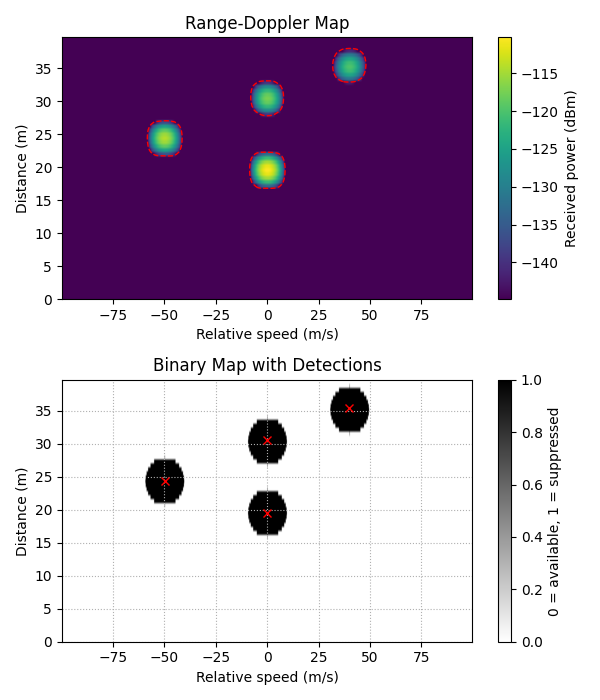
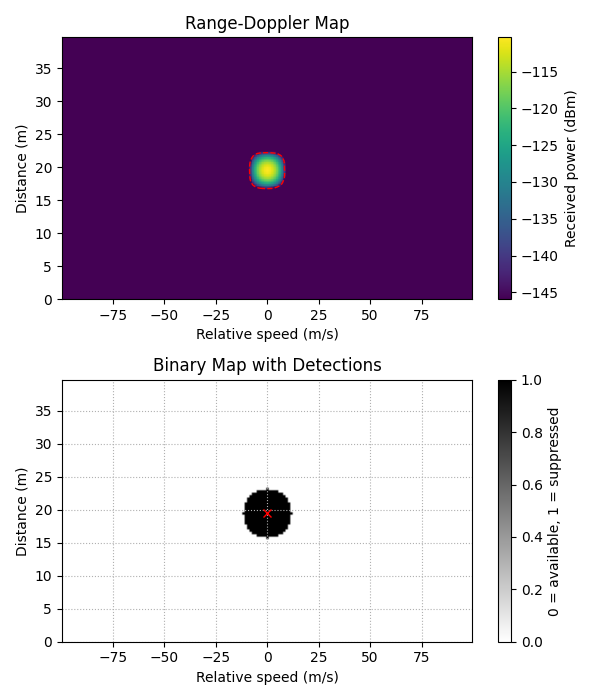
PFA + noise correction

diff --git a/evaluation.py b/evaluation.py
@@ -1,10 +1,13 @@
+# %% Imports
 import numpy as np
-from src.utils import load_config, plot_distance_error, C0
+from src.utils import load_config, plot_periodogram_and_detections, C0
 from src import environment as env
 from src import transmitter as tx
 from src import receiver as rx
 from src import post_processing as post
 
+
+# %% Run simulation
 config = load_config(path='configs/evaluation_parameters.yaml')
 
 FC = config['radar']['fc']
@@ -12,8 +15,7 @@ P_TX_DBM = config['radar']['Ptx']
 G_DBI = config['radar']['G']
 TEMP = config['radar']['temperature']
 NF_DB = config['radar']['NF']
-H = config['radar']['H']
-FAR = config['radar']['FAR']
+PFA = config['radar']['PFA']
 
 MODULATION = config['ofdm']['modulation']
 DELTA_F = config['ofdm']["delta_f"]
@@ -25,8 +27,8 @@ B_START = config['evaluation']['B_start']
 B_END = config['evaluation']['B_end']
 B_STEP = config['evaluation']['B_step']
 
-N_PER = config["periodogram"]['N_per']
-M_PER = config["periodogram"]['M_per']
+# N_PER = config["periodogram"]['N_per']
+# M_PER = config["periodogram"]['M_per']
 
 P_tx = 10 ** (P_TX_DBM / 10) * 1e-3
 G = 10 ** (G_DBI / 10)
@@ -36,8 +38,8 @@ T_SYM = (1.0 / DELTA_F) + T_CP    # seconds
 dmax = T_CP * C0 / 2
 vmax = DELTA_F * C0 / (10 * FC)
 
-N_MAX = int(np.ceil(2 * dmax * N_PER * DELTA_F) / C0)
-M_MAX = int(np.ceil(2 * vmax * FC * T_SYM * M_PER) / C0)
+# N_MAX = int(np.ceil(2 * dmax * N_PER * DELTA_F) / C0)
+# M_MAX = int(np.ceil(2 * vmax * FC * T_SYM * M_PER) / C0)
 
 if MODULATION == "BPSK": 
     BITS_PER_SYMBOL = 1
@@ -48,15 +50,21 @@ else:
 bandwidths = np.arange(B_START, B_END + 1, B_STEP)
 abs_errors = np.zeros((RUNS, len(bandwidths))) 
 
-for j, B in enumerate(bandwidths):
+for j, bw in enumerate(bandwidths):
     
-    N = int(B * 1e6 / DELTA_F)
+    N = int(bw * 1e6 / DELTA_F)
     N_FFT = int(2 ** np.ceil(np.log2(N)))
+    # N_FFT = 4096
     FS = N_FFT * DELTA_F
     CP_LEN = int(np.round(T_CP * FS)) # samples
     N_BITS = BITS_PER_SYMBOL * N * M
-    print(f"Running: B = {B} MHz; N = {N}")
 
+    N_PER = N * 4
+    M_PER = M * 4
+    N_MAX = int(np.ceil(2 * dmax * N_PER * DELTA_F) / C0)
+    M_MAX = int(np.ceil(2 * vmax * FC * T_SYM * M_PER) / C0)
+
+    print(f"Running: B = {bw} MHz; N = {N}")
     for k in range(RUNS):
         # Transmitter ============================================================================================================
         bits = tx.generate_bits(N_BITS)
@@ -76,7 +84,7 @@ for j, B in enumerate(bandwidths):
 
         echos += env.apply_target_echo(target, tx_signal, CP_LEN, FS, FC)
 
-        rx_signal = env.apply_awgn_nf(echos, TEMP, NF_DB, FS)
+        rx_signal = env.apply_awgn_nf(echos, TEMP, NF_DB, N * DELTA_F)
 
 
         # Receiver ==================================================================================================================
@@ -87,8 +95,11 @@ for j, B in enumerate(bandwidths):
         per, n_idx, m_idx, noise_power_hat, c_norm = rx.crop_periodogram(F, N_PER, M_PER, N_MAX, M_MAX, window="hamming")
 
 
+        
         # Post processing =======================================================================================
-        detections, eta, B = post.cfar_detector(per, noise_power_hat, FAR, N_win=12, M_win=128)
+        N_win = 5 * int(N_PER // N)
+        M_win = 5 * int(M_PER // M)
+        detections, eta, B = post.cfar_detector(per, noise_power_hat, PFA, N_win=N_win, M_win=M_win)
 
         det_targets = []
         for t, det in enumerate(detections):
@@ -107,11 +118,43 @@ for j, B in enumerate(bandwidths):
                     "rcs_hat": rcs_hat,
                 }
             )
-        
+        d_ax = n_idx * C0 / (2 * N_PER * DELTA_F)
+        v_ax = m_idx * C0 / (2 * FC * T_SYM * M_PER)
+        vlim=[-100.0, 100.0] 
+        dlim=[0.0, 40.0]
+
+        #plot_periodogram_and_detections(per, B, det_targets, eta, d_ax, v_ax, v_lim=vlim, d_lim=dlim)
         abs_errors[k, j] = np.abs(det_targets[0]["d_hat"] - target.distance)
 
-plot_distance_error(abs_errors, bandwidths)        
+# %%  Plot
+import matplotlib.pyplot as plt
 
-        
+mean = np.mean(abs_errors, axis=0)
+std = np.std(abs_errors, axis=0)
 
+mean_db = 10 * np.log10(mean)
+std_db = 10 * np.log10(mean + std) - mean_db
 
+plt.figure(figsize=(8, 5))
+
+plt.plot(bandwidths, mean_db, label='Mean absolute error', color='blue')
+
+plt.fill_between(
+    bandwidths,
+    mean_db - std_db,
+    mean_db + std_db,
+    color="blue",
+    alpha=0.3,
+    label="±1 std"
+)
+
+plt.xlabel("Bandwidth [MHz]")
+plt.ylabel(r"$|e_d|~[m]$")
+plt.title("Distance Error vs Bandwidth")
+plt.legend()
+plt.grid(linestyle=':')
+
+plt.tight_layout()
+plt.show()        
+
+# %%

diff --git a/simulation.py b/simulation.py
@@ -12,8 +12,7 @@ P_TX_DBM = config['radar']['Ptx']
 G_DBI = config['radar']['G']
 TEMP = config['radar']['temperature']
 NF_DB = config['radar']['NF']
-H = config['radar']['H']
-FAR = config['radar']['FAR']
+PFA = config['radar']['PFA']
 
 MODULATION = config['ofdm']['modulation']
 N_FFT = config['ofdm']['N_fft']
@@ -21,9 +20,6 @@ DELTA_F = config['ofdm']["delta_f"]
 T_CP = config['ofdm']['T_cp']
 N = config['ofdm']["N"]
 M = config['ofdm']['M']
-
-N_PER = config["periodogram"]['N_per']
-M_PER = config["periodogram"]['M_per']
 
 P_tx = 10 ** (P_TX_DBM / 10) * 1e-3
 G = 10 ** (G_DBI / 10)
@@ -36,8 +32,6 @@ CP_LEN = int(np.round(T_CP * FS)) # samples
 dmax = T_CP * C0 / 2
 vmax = DELTA_F * C0 / (10 * FC)
 
-N_MAX = int(np.ceil(2 * dmax * N_PER * DELTA_F) / C0)
-M_MAX = int(np.ceil(2 * vmax * FC * T_SYM * M_PER) / C0)
 
 if MODULATION == "BPSK": 
     BITS_PER_SYMBOL = 1
@@ -45,6 +39,16 @@ else:
     BITS_PER_SYMBOL = 2
 
 N_BITS = BITS_PER_SYMBOL * N * M
+
+if config['periodogram']['configure']:
+    N_PER = config["periodogram"]['N_per']
+    M_PER = config["periodogram"]['M_per']
+else:
+    N_PER = N * 4
+    M_PER = M * 4
+
+N_MAX = int(np.ceil(2 * dmax * N_PER * DELTA_F) / C0)
+M_MAX = int(np.ceil(2 * vmax * FC * T_SYM * M_PER) / C0)
 
 # Transmitter ============================================================================================================
 bits = tx.generate_bits(N_BITS)
@@ -65,7 +69,7 @@ echos = np.zeros_like(tx_signal, dtype=complex)
 for target in targets:
     echos += env.apply_target_echo(target, tx_signal, CP_LEN, FS, FC)
 
-rx_signal = env.apply_awgn_nf(echos, TEMP, NF_DB, FS)
+rx_signal = env.apply_awgn_nf(echos, TEMP, NF_DB, BANDWIDTH)
 
 
 # Receiver ==================================================================================================================
@@ -77,7 +81,9 @@ per, n_idx, m_idx, noise_power_hat, c_norm = rx.crop_periodogram(F, N_PER, M_PER
 
 
 # Post processing =======================================================================================
-detections, eta, B = post.cfar_detector(per, noise_power_hat, FAR, N_win=12, M_win=128)
+N_win = 5 * int(N_PER // N)
+M_win = 5 * int(M_PER // M)
+detections, eta, B = post.cfar_detector(per, noise_power_hat, PFA, N_win=N_win, M_win=M_win)
 print("Detection Threshold (dBm):", 10 * np.log10(eta * 1000), "\n")
 
 det_targets = []

diff --git a/src/post_processing.py b/src/post_processing.py
@@ -3,7 +3,7 @@ import numpy as np
 def cfar_detector(
     per: np.ndarray,
     noise_power: float,
-    FAR: float,
+    pfa: float,
     N_win: int = 3,
     M_win: int = 3,
 ):
@@ -32,7 +32,7 @@ def cfar_detector(
             - 'm_col': Doppler column index inside cropped periodogram
             - 'm_bin': centered Doppler-bin index
             - 'peak_power': detected peak value
-    eta : float
+    eta : float 
         Detection threshold.
     B : ndarray
         Final binary map (True = available, False = suppressed).
@@ -42,7 +42,8 @@ def cfar_detector(
 
     n_cells = N_max * M_crop
 
-    eta = -noise_power * np.log(FAR / n_cells)
+    #eta = -noise_power * np.log(pfa / n_cells)
+    eta = -noise_power * np.log(1 - (1 - pfa)**(1/n_cells)) # more accurate threshold calculation for small FAR values
 
     B = np.ones_like(per, dtype=bool)
     detections = []

diff --git a/src/utils.py b/src/utils.py
@@ -312,10 +312,13 @@ def plot_periodogram_3d(per, eta, d, v, v_lim=None, d_lim=None,
     plt.show()
 
 
-def plot_distance_error(error_matrix, bandwidths):
+def plot_distance_error_db(error_matrix, bandwidths):
 
     mean = np.mean(error_matrix, axis=0)
     std = np.std(error_matrix, axis=0)
+
+    mean_db = 10 * np.log10(mean)
+    std_db = 10 * np.log10(mean + std) - mean_db
 
     plt.figure(figsize=(8, 5))
 
@@ -323,8 +326,8 @@ def plot_distance_error(error_matrix, bandwidths):
 
     plt.fill_between(
         bandwidths,
-        mean - std,
-        mean + std,
+        mean_db - std_db,
+        mean_db + std_db,
         color="blue",
         alpha=0.3,
         label="±1 std"

diff --git a/src/receiver.py b/src/receiver.py
@@ -63,7 +63,7 @@ def crop_periodogram(F, N_per, M_per, N_max, M_max, window="boxcar"):
     F_range = N_per * np.fft.ifft(F_nm, n=N_per, axis=0) # N_per scaling because of numpy's ifft implementation
 
     # Noise power estimation ----------------------------------
-    noise_rows = F_range[-2:, :]
+    noise_rows = F_range[-1:, :]
     noise_dopp = np.fft.fft(noise_rows, n=M_per, axis=1)
     noise_per = np.abs(noise_dopp)**2 / (N * M)
     sigma2_hat = noise_per.mean()
